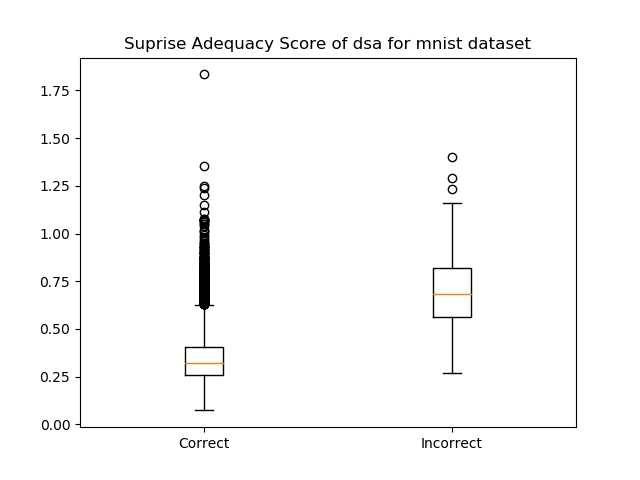
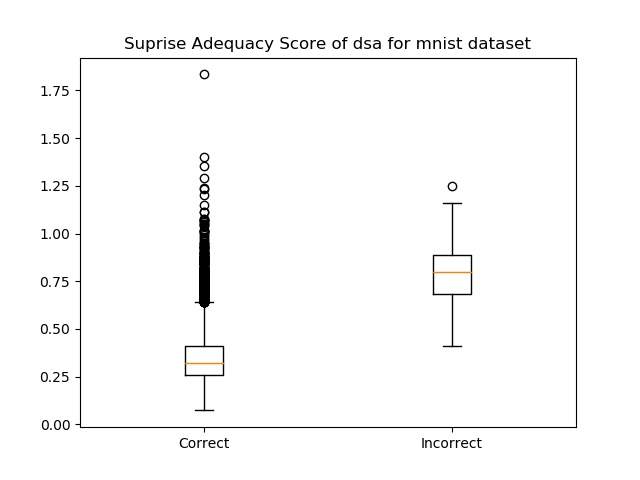
add files

diff --git a/box_plot.py b/box_plot.py
@@ -7,23 +7,31 @@ from utils import load_file, load_all_files
 import matplotlib.pyplot as plt
 import numpy as np
 
+CLIP_MIN = -0.5
+CLIP_MAX = 0.5
+
 def mnist_get_correct_and_incorrect_test_images(y_pred, y_true):
     # return the index of correct and incorrect test images 
     nrows, _ = y_pred.shape
-    correct, incorrect = list(), list()
-    for row in range(nrows):
-        if np.array_equal(y_pred[row, :], y_true[row, :]):
+    correct, incorrect = list(), list()    
+    for row in range(nrows):        
+        if np.argmax(y_pred[row, :]) == np.argmax(y_true[row, :]):
             correct.append(row)
         else:
-            incorrect.append(row)
+            incorrect.append(row)        
     return correct, incorrect
 
 
-def get_sa_for_correct_and_incorrect(sa_score, correct_index, incorrect_index):
+def get_sa_for_correct_and_incorrect(sa_score, correct_index, incorrect_index, dataset):
     sa_score = [float(score) for score in sa_score]  # convert to float number
     # sa_score = [float(s)/max(sa_score) for s in sa_score]  # normalize list of numbers 
-    sa_correct = [sa_score[index] for index in correct_index if sa_score[index] < 5000]
-    sa_incorrect = [sa_score[index] for index in incorrect_index if sa_score[index] < 5000]    
+    if dataset == 'mnist':
+        sa_correct = [sa_score[index] for index in correct_index if sa_score[index] < 5000]
+        sa_incorrect = [sa_score[index] for index in incorrect_index if sa_score[index] < 5000]
+    
+    if dataset == 'cifar':
+        sa_correct = [sa_score[index] for index in correct_index if sa_score[index] < 20000]
+        sa_incorrect = [sa_score[index] for index in incorrect_index if sa_score[index] < 20000]
     return np.array(sa_correct), np.array(sa_incorrect)
 
 
@@ -53,6 +61,11 @@ if __name__ == '__main__':
         x_train = x_train.reshape(-1, 28, 28, 1)
         x_test = x_test.reshape(-1, 28, 28, 1)
 
+        x_train = x_train.astype("float32")
+        x_train = (x_train / 255.0) - (1.0 - CLIP_MAX)
+        x_test = x_test.astype("float32")
+        x_test = (x_test / 255.0) - (1.0 - CLIP_MAX)
+
         # number of class
         num_class = 10
         y_train = utils.to_categorical(y_train, num_class)
@@ -67,7 +80,7 @@ if __name__ == '__main__':
         model.summary()
 
         y_pred = model.predict(x_test)
-        y_pred = np.around(y_pred)
+        # y_pred = np.around(y_pred)
 
         correct, incorrect = mnist_get_correct_and_incorrect_test_images(y_pred=y_pred, y_true=y_test)
 
@@ -80,9 +93,47 @@ if __name__ == '__main__':
             type_sa = 'dsa'
         
         sa_score = load_file(score_path_file)
-        sa_correct, sa_incorrect = get_sa_for_correct_and_incorrect(sa_score=sa_score, correct_index=correct, incorrect_index=incorrect)
+        sa_correct, sa_incorrect = get_sa_for_correct_and_incorrect(sa_score=sa_score, correct_index=correct, incorrect_index=incorrect, dataset=args.d)
         print('Dataset: %s' % (args.d))
         print('Mean and std of correct instances for %s score: %.3f, %.3f' % (type_sa, np.mean(sa_correct), np.std(sa_correct)))
         print('Mean and std of incorrect instances for %s score: %.3f, %.3f' % (type_sa, np.mean(sa_incorrect), np.std(sa_incorrect)))
+        print('Accuracy of cifar dataset: %.3f' % (len(sa_correct) / (len(sa_correct) + len(sa_incorrect))))
         draw_box_plot(sa_correct=sa_correct, sa_incorrect=sa_incorrect, dataset=args.d, type_sa=type_sa)
+    
+    if args.d == "cifar":
+        (x_train, y_train), (x_test, y_test) = cifar10.load_data()
+
+        x_train = x_train.astype("float32")
+        x_train = (x_train / 255.0) - (1.0 - CLIP_MAX)
+        x_test = x_test.astype("float32")
+        x_test = (x_test / 255.0) - (1.0 - CLIP_MAX)
+
+        # number of class
+        num_class = 10
+        y_train = utils.to_categorical(y_train, num_class)
+        y_test = utils.to_categorical(y_test, num_class)
+
+        model = load_model('./model_tracking/cifar_model_improvement-496-0.87.h5')
+        model.summary()
+
+        score = model.evaluate(x_test, y_test, verbose=1)        
+
+        y_pred = model.predict(x_test)        
+        # y_pred = np.around(y_pred)
+        correct, incorrect = mnist_get_correct_and_incorrect_test_images(y_pred=y_pred, y_true=y_test)        
+
+        if args.lsa:
+            score_path_file = './sa/lsa_cifar.txt'
+            type_sa = 'lsa'
         
+        if args.dsa:
+            score_path_file = './sa/dsa_cifar.txt'
+            type_sa = 'dsa'
+        
+        sa_score = load_file(score_path_file)
+        sa_correct, sa_incorrect = get_sa_for_correct_and_incorrect(sa_score=sa_score, correct_index=correct, incorrect_index=incorrect, dataset=args.d)
+        print('Dataset: %s' % (args.d))
+        print('Mean and std of correct instances for %s score: %.3f, %.3f' % (type_sa, np.mean(sa_correct), np.std(sa_correct)))
+        print('Mean and std of incorrect instances for %s score: %.3f, %.3f' % (type_sa, np.mean(sa_incorrect), np.std(sa_incorrect)))
+        print('Accuracy of cifar dataset: %.3f' % (len(sa_correct) / (len(sa_correct) + len(sa_incorrect))))
+        draw_box_plot(sa_correct=sa_correct, sa_incorrect=sa_incorrect, dataset=args.d, type_sa=type_sa)

diff --git a/find_best_model.py b/find_best_model.py
@@ -8,6 +8,9 @@ from utils import load_file, load_all_files
 import matplotlib.pyplot as plt
 import numpy as np
 
+CLIP_MIN = -0.5
+CLIP_MAX = 0.5
+
 def load_models(path_folder, dataset):
     # return the model name depending on which dataset
     all_models = load_all_files(path_folder=path_folder)    
@@ -21,8 +24,23 @@ def get_best_models(models, x_test, y_test):
         model = load_model(path_model)
         score = model.evaluate(x_test, y_test, verbose=0)
         accuracy.append(score[1])
+        print(path_model, score[1])
     max_index = accuracy.index(max(accuracy))
     return models[max_index]
+
+
+def get_best_models_cifar(models, x_test, y_test):
+    models = sorted(models)
+    accuracy = list()
+    for path_model in models:
+        model = load_model(path_model)
+        y_pred = model.predict(x_test)
+        score = model.evaluate(x_test, y_test, verbose=0)
+        accuracy.append(score[1])
+        print(path_model, score[1])
+    max_index = accuracy.index(max(accuracy))
+    return models[max_index]
+
 
 if __name__ == '__main__':
     parser = argparse.ArgumentParser()
@@ -41,6 +59,11 @@ if __name__ == '__main__':
         x_train = x_train.reshape(-1, 28, 28, 1)
         x_test = x_test.reshape(-1, 28, 28, 1)
 
+        x_train = x_train.astype("float32")
+        x_train = (x_train / 255.0) - (1.0 - CLIP_MAX)
+        x_test = x_test.astype("float32")
+        x_test = (x_test / 255.0) - (1.0 - CLIP_MAX)
+
         # number of class
         num_class = 10
         y_train = utils.to_categorical(y_train, num_class)
@@ -51,6 +74,34 @@ if __name__ == '__main__':
         path_best_model = get_best_models(models=path_models, x_test=x_test, y_test=y_test)                
         model = load_model(path_best_model)
         score = model.evaluate(x_test, y_test, verbose=0)        
+
+        y_pred = model.predict(x_test)
+        y_pred = np.around(y_pred)
+
+        correct, incorrect = mnist_get_correct_and_incorrect_test_images(y_pred=y_pred, y_true=y_test)        
+        print('Best accuracy for %s: %.3f' %(args.d, score[1]))
+        print(len(correct), len(incorrect))
+        print(path_best_model)
+        exit()
+
+    if args.d == 'cifar':
+        (x_train, y_train), (x_test, y_test) = cifar10.load_data()
+
+        x_train = x_train.astype("float32")
+        x_train = (x_train / 255.0) - (1.0 - CLIP_MAX)
+        x_test = x_test.astype("float32")
+        x_test = (x_test / 255.0) - (1.0 - CLIP_MAX)
+
+        # number of class
+        num_class = 10
+        y_train = utils.to_categorical(y_train, num_class)
+        y_test = utils.to_categorical(y_test, num_class)
+
+        # Load pre-trained model.
+        path_models = load_models(path_folder='./model_tracking/', dataset=args.d)
+        path_best_model = get_best_models(models=path_models, x_test=x_test, y_test=y_test)       
+        model = load_model(path_best_model)
+        score = model.evaluate(x_test, y_test, verbose=0)
 
         y_pred = model.predict(x_test)
         y_pred = np.around(y_pred)

diff --git a/prob_score.py b/prob_score.py
@@ -1,0 +1,50 @@
+from box_plot import mnist_get_correct_and_incorrect_test_images
+from keras.datasets import mnist, cifar10
+from keras.models import load_model, Model
+import argparse
+from keras import utils
+import numpy as np
+from utils import load_file, load_all_files
+import matplotlib.pyplot as plt
+import numpy as np
+
+CLIP_MIN = -0.5
+CLIP_MAX = 0.5
+
+if __name__ == '__main__':
+    parser = argparse.ArgumentParser()
+    parser.add_argument("--d", "-d", help="Dataset", type=str, default="mnist")
+    parser.add_argument(
+        "--lsa", "-lsa", help="Likelihood-based Surprise Adequacy", action="store_true"
+    )
+    parser.add_argument(
+        "--dsa", "-dsa", help="Distance-based Surprise Adequacy", action="store_true"
+    )
+
+    args = parser.parse_args()
+    assert args.d in ["mnist", "cifar"], "Dataset should be either 'mnist' or 'cifar'"
+
+    if args.d == "mnist":
+        (x_train, y_train), (x_test, y_test) = mnist.load_data()
+        x_train = x_train.reshape(-1, 28, 28, 1)
+        x_test = x_test.reshape(-1, 28, 28, 1)
+
+        x_train = x_train.astype("float32")
+        x_train = (x_train / 255.0) - (1.0 - CLIP_MAX)
+        x_test = x_test.astype("float32")
+        x_test = (x_test / 255.0) - (1.0 - CLIP_MAX)
+
+        # number of class
+        num_class = 10
+        y_train = utils.to_categorical(y_train, num_class)
+        y_test = utils.to_categorical(y_test, num_class)
+
+        model = load_model('./model_tracking/model_improvement-04-0.99_mnist.h5')
+        model.summary()
+
+        y_pred = model.predict(x_test)
+        print(y_pred)
+        y_pred = np.around(y_pred)
+        print(y_pred)
+        exit()
+

diff --git a/run_output_sa.py b/run_output_sa.py
@@ -88,7 +88,15 @@ if __name__ == "__main__":
         layer_names = ["activation_3"]
 
         # Load target set.
-        x_target = np.load("./adv/adv_mnist_{}.npy".format(args.target))
+        # x_target = np.load("./adv/adv_mnist_{}.npy".format(args.target))
+
+    if args.d == 'cifar':
+        (x_train, y_train), (x_test, y_test) = cifar10.load_data()
+        model = load_model('./model_tracking/cifar_model_improvement-496-0.87.h5')
+        model.summary()
+
+        layer_names = ["activation_11"]
+
 
     x_train = x_train.astype("float32")
     x_train = (x_train / 255.0) - (1.0 - CLIP_MAX)

diff --git a/run.py b/run.py
@@ -108,7 +108,7 @@ if __name__ == "__main__":
     x_test = (x_test / 255.0) - (1.0 - CLIP_MAX)
 
     if args.lsa:
-        test_lsa = fetch_lsa(model, x_train, x_test, "test", layer_names, args)                
+        test_lsa = fetch_lsa(model, x_train, x_test, "test", layer_names, args)
 
         target_lsa = fetch_lsa(model, x_train, x_target, args.target, layer_names, args)
         target_cov = get_sc(

diff --git a/train_model_vgg.py b/train_model_vgg.py
@@ -100,7 +100,7 @@ def train(args):
     model.add(Activation("softmax"))
 
     print(model.summary())
-    opt = SGD(lr=0.001, decay=1e-4, momentum=0.9)
+    opt = SGD(lr=0.0001, decay=1e-6, momentum=0.9)
     model.compile(
         loss="categorical_crossentropy", optimizer=opt, metrics=["accuracy"]
     )
